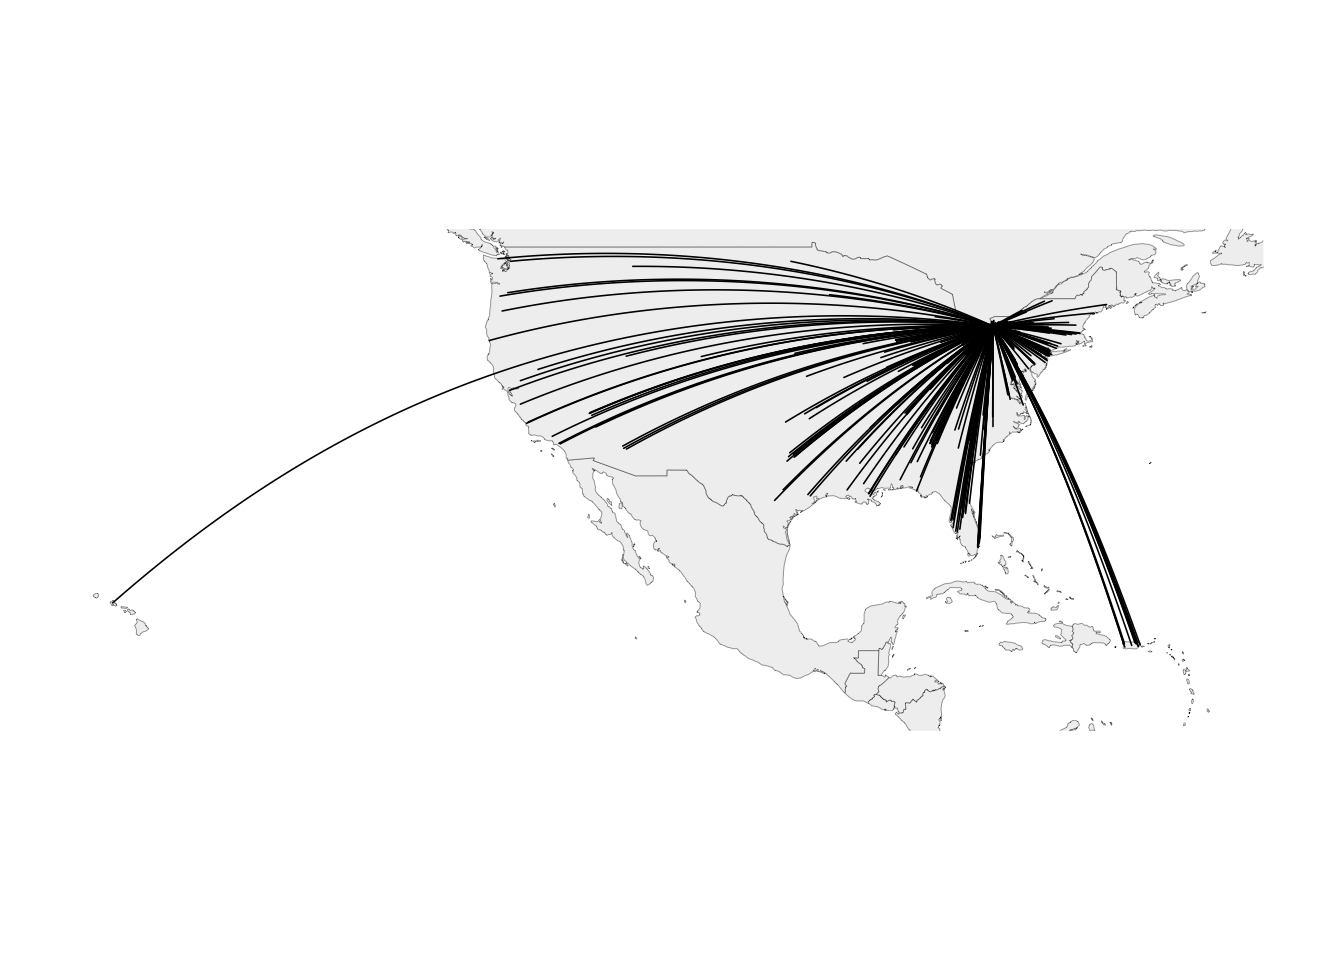
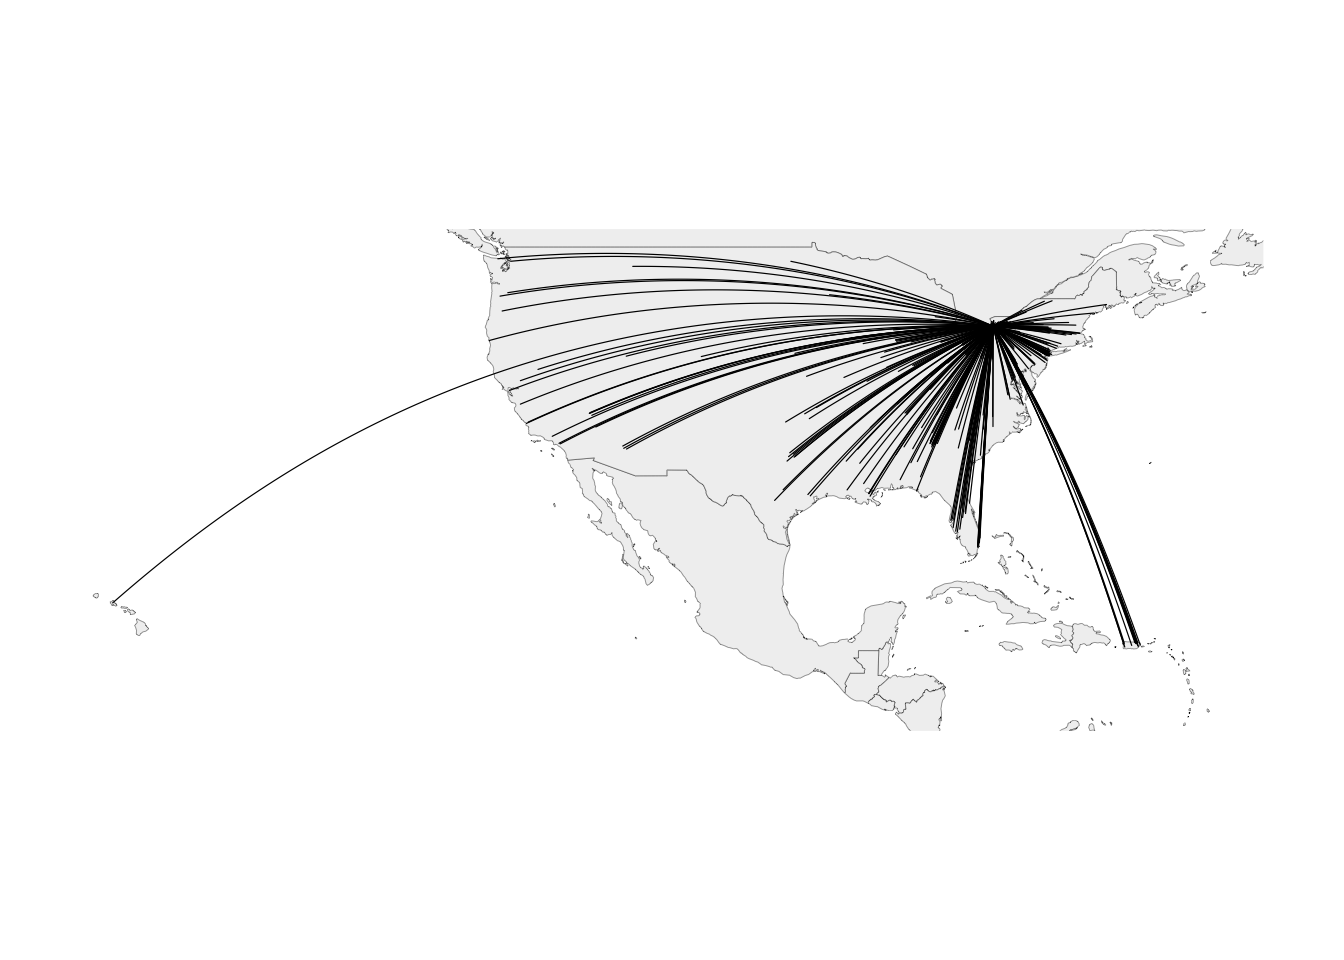
commit to color!!

diff --git a/docs/index.html b/docs/index.html
@@ -496,20 +496,21 @@ count_in_zips_polygons&lt;-inner_join(Buffalo_Shelter_Data, PRzips, by= c(&quot;
 <h1>Results</h1>
 <div id="mapping-the-origin" class="section level3">
 <h3>Mapping the Origin</h3>
-<p>Map of locations across the United States are people originate from before becoming homeless in Western New York</p>
-<pre class="r"><code>points_in_US&lt;- data.frame(count_in_zips_points_US)
+<p>The following map shows the locations across the United States that people originate from before becoming homeless in Western New York</p>
+<pre class="r"><code>#set the points of origin (&quot;points_in_US&quot;) and the final destination in Buffalo (&quot;BuffaloCoordinates&quot;)
+points_in_US&lt;- data.frame(count_in_zips_points_US)
+BuffaloCoordinates=as.matrix(geocode(&quot;Buffalo, NY&quot;))
 
 #use the map package to create a map of the area of interest
 xlim &lt;- c(-160, -55.5)
 ylim &lt;- c(12, 50)
-BuffaloCoordinates=as.matrix(geocode(&quot;Buffalo, NY&quot;))
 map(&quot;world&quot;, col=&quot;#f1f1f1&quot;, fill=TRUE, bg=&quot;white&quot;, lwd=0.2, xlim=xlim, ylim=ylim)
 
 #use geosphere package to create great circle lines between points of origin and Buffalo, NY
 for (j in 1:length(points_in_US$n)) {
   inter &lt;- gcIntermediate(c(points_in_US[j,]$Longitude, points_in_US[j,]$Latitude), BuffaloCoordinates, n=100, addStartEnd=TRUE)
   
-  lines(inter, col=&quot;black&quot;, lwd=0.8)
+  lines(inter, col=&quot;black&quot;, lwd=0.6)
 }</code></pre>
 <p><img src="index_files/figure-html/unnamed-chunk-12-1.png" width="672" /></p>
 <p>As we can see, there are a number of lines originating in Puerto Rico. The next section will specifically explore the phenomenon of people coming from Puerto Rico before becoming homeless in Western New York…</p>
@@ -518,28 +519,30 @@ for (j in 1:length(points_in_US$n)) {
 <h3>Puerto Rico to Buffalo</h3>
 <div id="zip-code-density" class="section level4">
 <h4>Zip Code Density</h4>
-<p>Zoomed-in map of migration to Buffalo from Puerto Rico along great circle lines, weighted by the number from each place (darker = more people)</p>
-<pre class="r"><code>points &lt;- data.frame(count_in_zips_points)
-
-#use the map package to create a map of the area of interest
-xlim &lt;- c(-90, -60)
-ylim &lt;- c(18, 45)
+<p>Zoomed-in map of migration to Buffalo from Puerto Rico along great circle lines, weighted by the number from each place (the darker red the color, the more people coming from the zip code)</p>
+<pre class="r"><code>#set the points of origin (&quot;points&quot;) and the final destination in Buffalo (&quot;BuffaloCoordinates&quot;)
+points &lt;- data.frame(count_in_zips_points)
 BuffaloCoordinates=as.matrix(geocode(&quot;Buffalo, NY&quot;))</code></pre>
 <pre><code>## Information from URL : http://maps.googleapis.com/maps/api/geocode/json?address=Buffalo,%20NY&amp;sensor=false</code></pre>
-<pre class="r"><code>pal &lt;- colorRampPalette(c(&quot;#f2f2f2&quot;, &quot;black&quot;))
-colors &lt;- pal(100)
+<pre class="r"><code>#use the map package to create a map of the area of interest
+xlim &lt;- c(-90, -60)
+ylim &lt;- c(18, 45)
 map(&quot;world&quot;, col=&quot;#f1f1f1&quot;, fill=TRUE, bg=&quot;white&quot;, lwd=0.2, xlim=xlim, ylim=ylim)
+
+#create a color ramp to show the number of people coming from each zip code of origin
+prettypal&lt;-colorRampPalette(c(&quot;#ffeda0&quot;, &quot;red&quot;))
+prettycolors &lt;- prettypal(max(points$n))
 
 #use geosphere package to create great circle lines between points of origin and Buffalo, NY
 for (j in 1:length(points$n)) {
   inter &lt;- gcIntermediate(c(points[j,]$Longitude, points[j,]$Latitude), BuffaloCoordinates, n=100, addStartEnd=TRUE)
   
-  colindex &lt;- round( (points[j,]$n / 7) * length(colors) )
+  colindex &lt;- (points[j,]$n)
   
-  lines(inter, col=colors[colindex], lwd=0.8)
+  lines(inter, col=prettycolors[colindex], lwd=0.8)
 }</code></pre>
 <p><img src="index_files/figure-html/unnamed-chunk-13-1.png" width="672" /></p>
-<p>Choropleth map of density (number of people coming to Buffalo from each Puerto Rican zip code)</p>
+<p>Create a choropleth map of density (number of people coming to Buffalo from each Puerto Rican zip code)</p>
 <pre class="r"><code>###use ggplot to create a choropleth map of density
 ggplot(PRzips)+
   geom_sf(lwd=0.2,fill=&quot;#f0f0f0&quot;)+
@@ -547,10 +550,9 @@ ggplot(PRzips)+
   scale_fill_gradient(low = &quot;yellow&quot;, high = &quot;red&quot;)+
   labs(fill=&quot;Number People&quot;)</code></pre>
 <p><img src="index_files/figure-html/unnamed-chunk-14-1.png" width="672" /></p>
-<p>Map of centroid dots of location of origin; color and size indicate the number coming from that place</p>
+<p>There are other ways of visualizing this data. For example, the following map will create centroid dots of the zip code of origin, with size indicating the number of individuals coming from that place</p>
 <pre class="r"><code>#create points as data frame to use in ggplot
 points &lt;- data.frame(count_in_zips_points)
-
 
 #plot
 ggplot(PRzips)+
